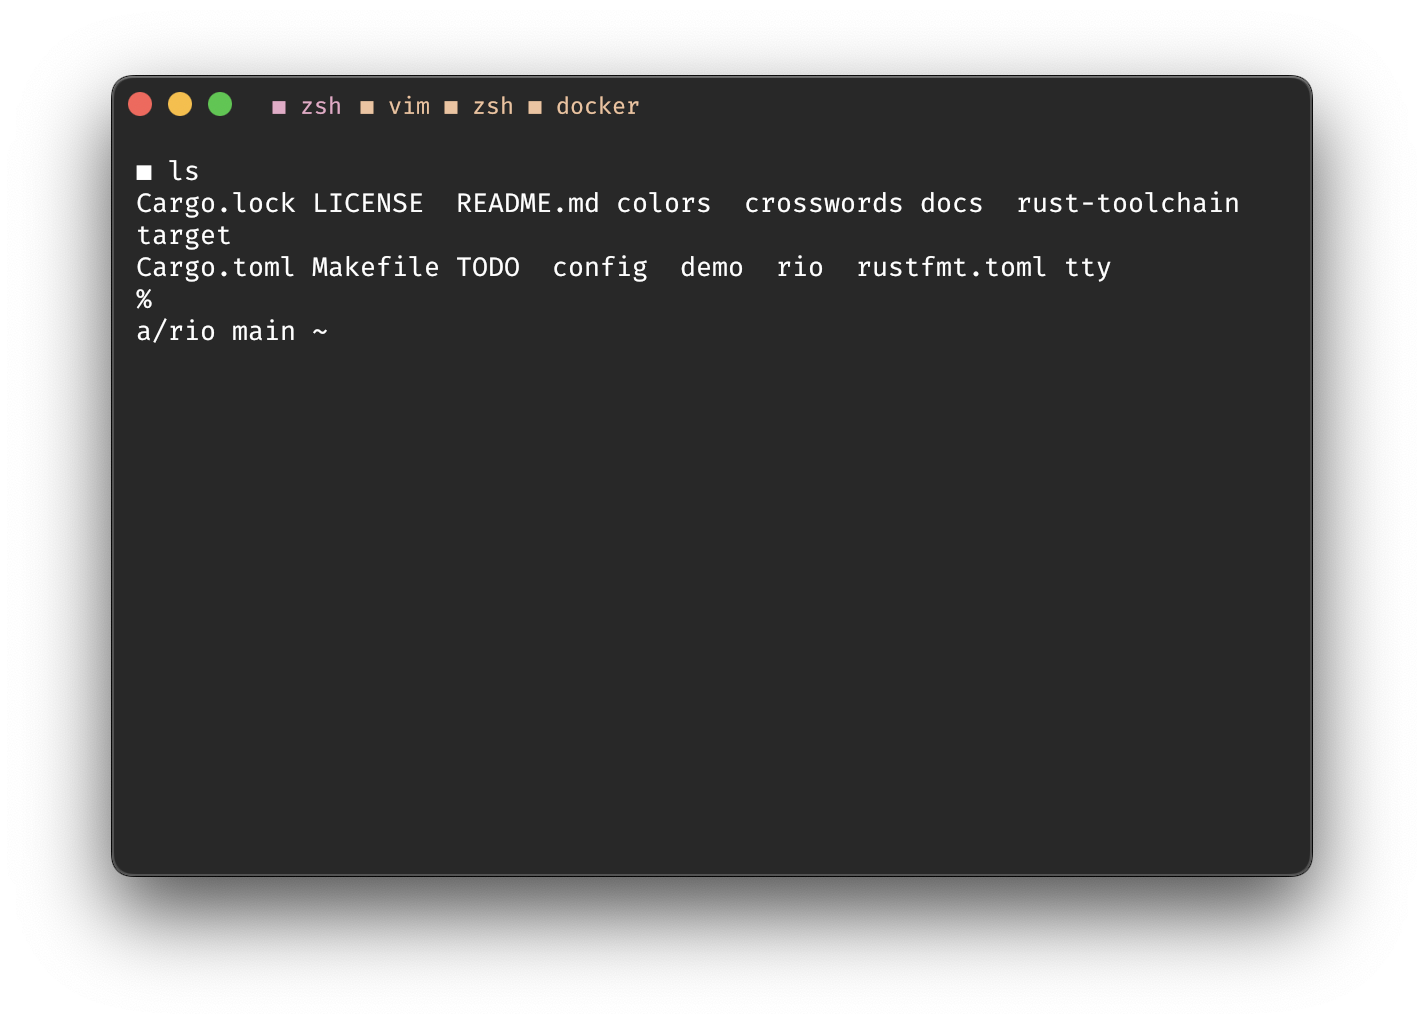
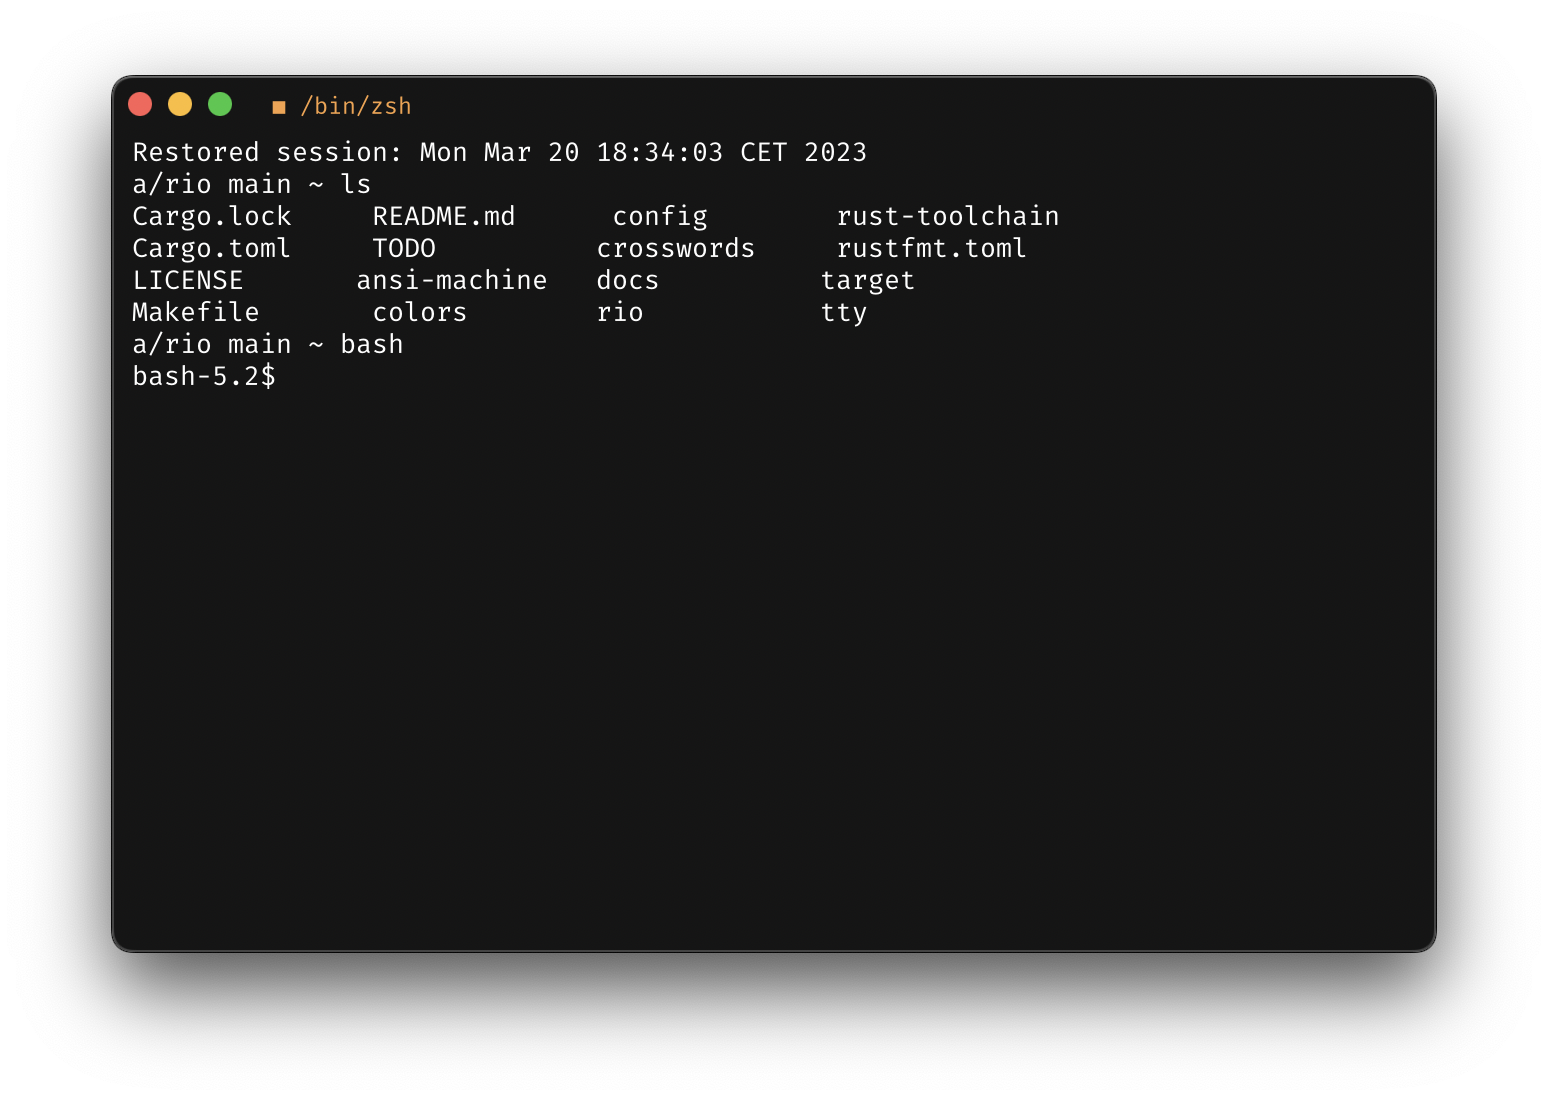
update colors

Changed region(s): [[0.0618, 0.0625, 0.927, 0.875], [0.7107, 0.1875, 0.8652, 0.2188]]

diff --git a/docs/index.html b/docs/index.html
@@ -70,6 +70,8 @@
 			<h2>Twitter</h2>
 		</div>
 		<div class="twitter">
+		<blockquote class="twitter-tweet" data-lang="en" data-theme="dark"><p lang="en" dir="ltr">Reading colors from configuration file ⌛<a href="https://t.co/5EuJJzPsB2">https://t.co/5EuJJzPsB2</a> A hardware-accelerated GPU terminal emulator powered by Rust <a href="https://t.co/Bf1oQOKvY4">pic.twitter.com/Bf1oQOKvY4</a></p>&mdash; Raphael Amorim 🦀 (@raphamorims) <a href="https://twitter.com/raphamorims/status/1637833296976420869?ref_src=twsrc%5Etfw">March 20, 2023</a></blockquote>
+
 		<blockquote class="twitter-tweet"><p lang="en" dir="ltr">ANSI scrolling scrolling scrolling<a href="https://t.co/5EuJJzQ0qA">https://t.co/5EuJJzQ0qA</a> ~ WGPU virtual terminal powered by Rust, WebAssembly and Tokio. <a href="https://t.co/B7UbUcdoOR">pic.twitter.com/B7UbUcdoOR</a></p>&mdash; Raphael Amorim 🦀 (@raphamorims) <a href="https://twitter.com/raphamorims/status/1637469319478255618?ref_src=twsrc%5Etfw">March 19, 2023</a></blockquote>
 
 		<blockquote class="twitter-tweet" data-lang="en" data-theme="dark"><p lang="en" dir="ltr">Started to parser job for ANSI standards for ASCII terminals (standard was documented by Joe Smith, 18-May-1984). <br><br>Still a lot to go: needs to map all keyboard interaction and virtual keyboard execution through WGPU <a href="https://twitter.com/hashtag/Rust?src=hash&amp;ref_src=twsrc%5Etfw">#Rust</a> <a href="https://t.co/ZnilDIEXED">https://t.co/ZnilDIEXED</a> <a href="https://t.co/xvFzDK1u5T">pic.twitter.com/xvFzDK1u5T</a></p>&mdash; Raphael Amorim (@raphamorims) <a href="https://twitter.com/raphamorims/status/1581592899112042498?ref_src=twsrc%5Etfw">October 16, 2022</a></blockquote>

diff --git a/config/src/lib.rs b/config/src/lib.rs
@@ -113,7 +113,7 @@ impl Default for Config {
             .unwrap()
             .to_wgpu();
         let tabs_active =
-            ColorBuilder::from_hex(String::from("#E6DB74"), Format::SRGB0_1)
+            ColorBuilder::from_hex(String::from("#F8A145"), Format::SRGB0_1)
                 .unwrap()
                 .to_arr();
         Config {
@@ -203,7 +203,7 @@ mod tests {
             .to_wgpu();
         let foreground = [1.0, 1.0, 1.0, 1.0];
         let tabs_active =
-            ColorBuilder::from_hex(String::from("#E6DB74"), Format::SRGB0_1)
+            ColorBuilder::from_hex(String::from("#F8A145"), Format::SRGB0_1)
                 .unwrap()
                 .to_arr();
         let cursor = ColorBuilder::from_hex(String::from("#8E12CC"), Format::SRGB0_1)
@@ -237,7 +237,7 @@ mod tests {
                 String::from("#151515"),
                 String::from("#FFFFFF"),
                 String::from("#8E12CC"),
-                String::from("#E6DB74"),
+                String::from("#F8A145"),
             ),
         );
         assert_eq!(expected.performance, result.performance);
